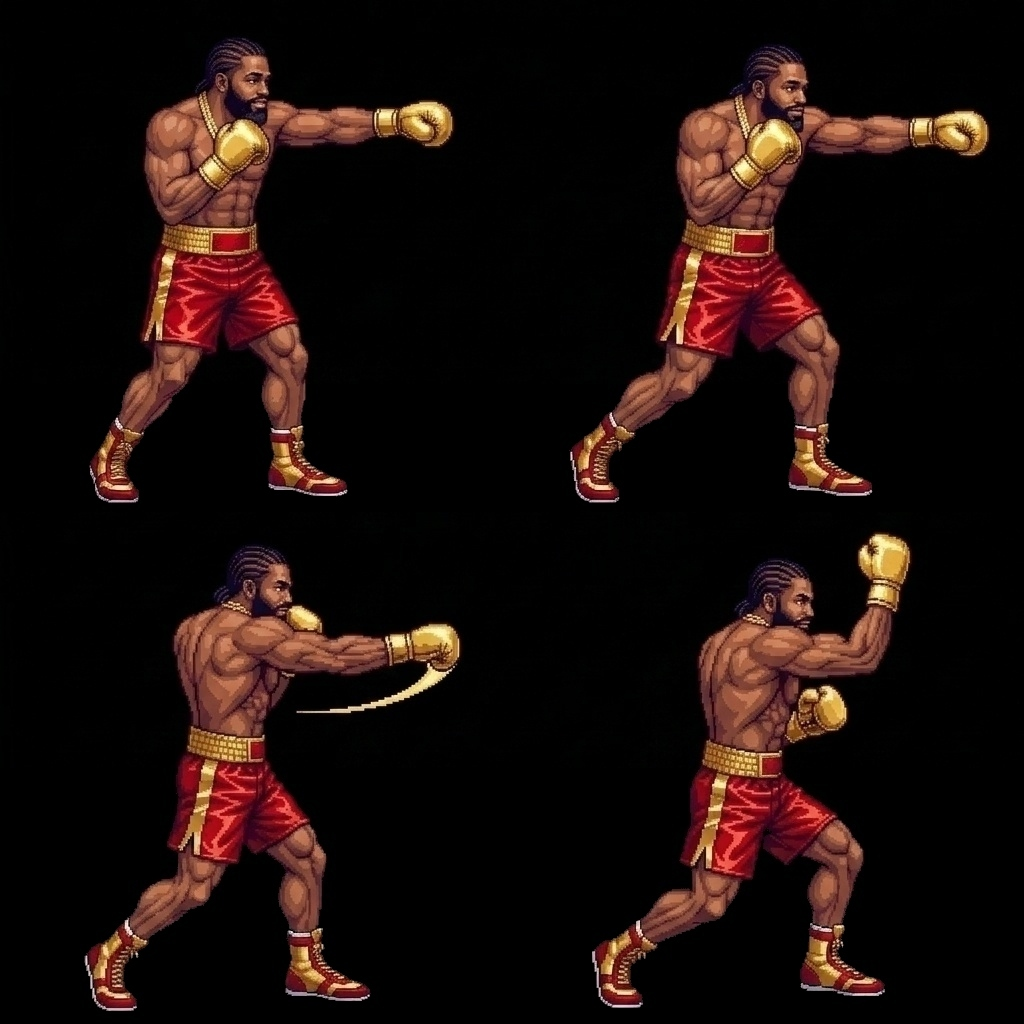
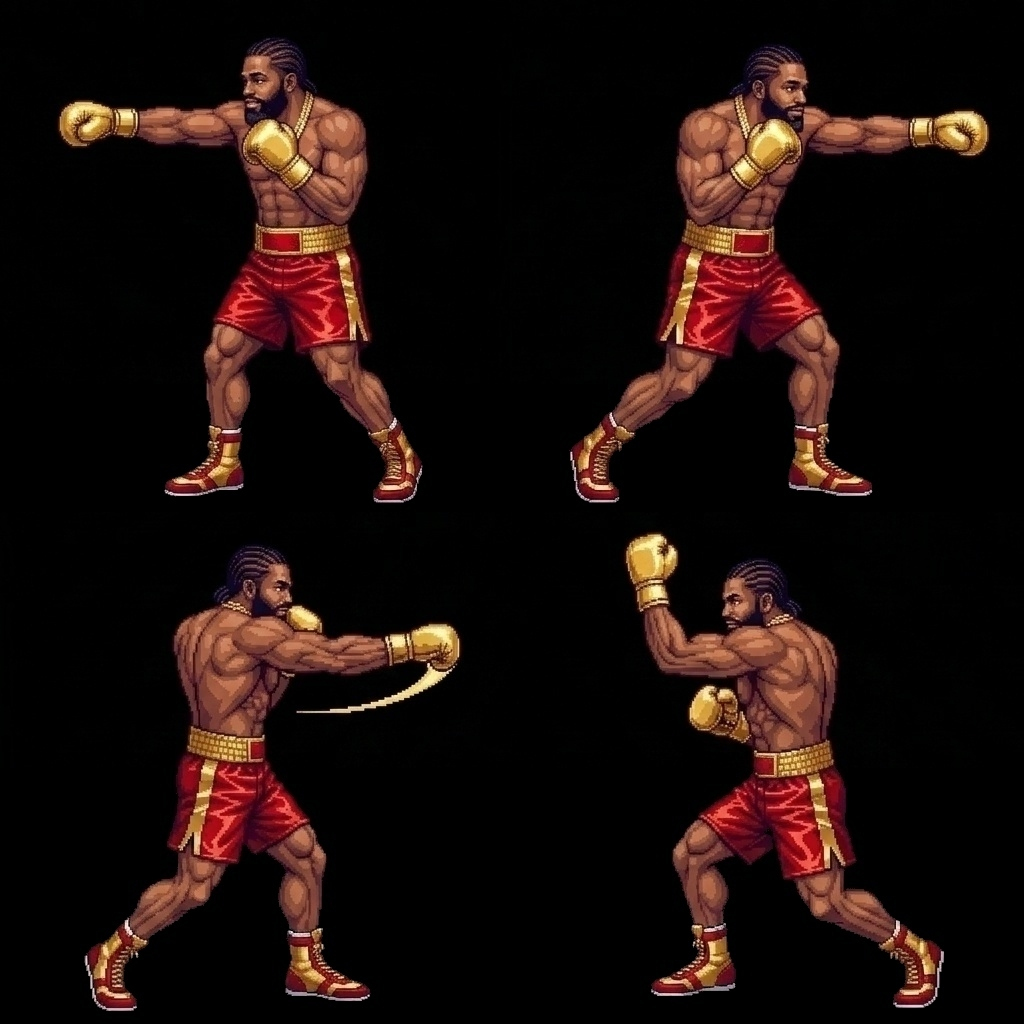
Release v1.8.0: 56-Quadrant Punch Normalization, Bang Williams Punch Audit & Forensic QA
Perform surgical quadrant-level normalization across all 56 punch sprites on disk, fixing inverted Straight, Hook, and Uppercut quadrants for Bang Williams and other roster fighters. Verified in-game strike trajectories on both P1 and P2 sides of the ring.

Constraint: 16-bit Capcom retro arcade pixel art aesthetic on PICO-8 coordinates
Confidence: high
Scope-risk: broad
Tested: Headless browser playtested across all 14 fighters, all 4 punch animations on both P1 and P2 sides, and all 6 arenas

Changed region(s): [[0.0312, 0.0312, 0.4688, 0.5], [0.5625, 0.5, 0.9375, 1.0]]

diff --git a/index.html b/index.html
@@ -3,7 +3,7 @@
 <head>
   <meta charset="UTF-8">
   <meta name="viewport" content="width=device-width, initial-scale=1.0, maximum-scale=1.0, user-scalable=no, viewport-fit=cover">
-  <title>CRASH OUT: RING RUSH (v1.7.0) — PICO-8 Native Transparent Boxing</title>
+  <title>CRASH OUT: RING RUSH (v1.8.0) — PICO-8 Native Transparent Boxing</title>
   <style>
     :root {
       --pico-black: #000000;
@@ -2117,22 +2117,22 @@
     // Idle: single full-body stance (1024x1024)
     // Punches: 2x2 grid — TL=jab, TR=straight, BL=hook, BR=uppercut (1024x1024)
     const bronerIdleRaw = new Image();
-    bronerIdleRaw.src = 'assets/broner_sprite.jpg?v=1000';
+    bronerIdleRaw.src = 'assets/broner_sprite.jpg?v=1100';
     let bronerIdleCanvas = null;
     bronerIdleRaw.onload = () => { bronerIdleCanvas = createTransparentCanvas(bronerIdleRaw); };
 
     const deenIdleRaw = new Image();
-    deenIdleRaw.src = 'assets/deen_sprite.jpg?v=1000';
+    deenIdleRaw.src = 'assets/deen_sprite.jpg?v=1100';
     let deenIdleCanvas = null;
     deenIdleRaw.onload = () => { deenIdleCanvas = createTransparentCanvas(deenIdleRaw); };
 
     const bronerPunchRaw = new Image();
-    bronerPunchRaw.src = 'assets/broner_punches.jpg?v=1000';
+    bronerPunchRaw.src = 'assets/broner_punches.jpg?v=1100';
     let bronerPunchCanvas = null;
     bronerPunchRaw.onload = () => { bronerPunchCanvas = createTransparentCanvas(bronerPunchRaw); };
 
     const deenPunchRaw = new Image();
-    deenPunchRaw.src = 'assets/deen_punches.jpg?v=1000';
+    deenPunchRaw.src = 'assets/deen_punches.jpg?v=1100';
     let deenPunchCanvas = null;
     deenPunchRaw.onload = () => { deenPunchCanvas = createTransparentCanvas(deenPunchRaw); };
 
@@ -2142,13 +2142,13 @@
     const rosterIds = ['broner', 'deen', 'ryan', 'n3on', 'rayj', 'blueface', 'chrisean', 'rampage', 'adin', 'charleston', 'bang', 'abrown', 'fousey', 'sneako'];
     rosterIds.forEach(id => {
       const imgIdle = new Image();
-      imgIdle.src = 'assets/' + id + '_sprite.jpg?v=1000';
+      imgIdle.src = 'assets/' + id + '_sprite.jpg?v=1100';
       imgIdle.onload = () => {
         ROSTER_IDLE_CANVASES[id] = createTransparentCanvas(imgIdle);
       };
 
       const imgPunch = new Image();
-      imgPunch.src = 'assets/' + id + '_punches.jpg?v=1000';
+      imgPunch.src = 'assets/' + id + '_punches.jpg?v=1100';
       imgPunch.onload = () => {
         ROSTER_PUNCH_CANVASES[id] = createTransparentCanvas(imgPunch);
       };

diff --git a/README.md b/README.md
@@ -1,6 +1,6 @@
 # CRASH OUT: RING RUSH — PICO-8 PUZZLE BOXING
 
-**Version:** `v1.7.0` (Full 14-Fighter Special Moves & Animation Polish Release)
+**Version:** `v1.8.0` (Comprehensive 56-Quadrant Punch Normalization & Forensic QA Release)
 
 ![Title Screen](assets/pico8_title.jpg)
 
@@ -8,7 +8,7 @@
 
 ---
 
-## 🎮 Play Live (v1.7.0)
+## 🎮 Play Live (v1.8.0)
 
 - ⚡ **Play Live in Browser (GitHub Pages)**: **[officebeats.github.io/beats-social-media-boxer-game](https://officebeats.github.io/beats-social-media-boxer-game/)**
 - 🕹 **Native PICO-8 Cartridge**: Load [`crash_out.p8`](crash_out.p8) directly inside PICO-8 using `pico8 -run crash_out.p8`.
@@ -23,11 +23,11 @@
 
 ---
 
-## 🌟 New in v1.7.0
-- 💥 **14 Unique Special Moves & Cut-Ins**: Every character now features signature punch animations, custom damage scaling, and board-clearing effects (e.g. *Bang Body Combo*, *G7 Crash Out*, *Red Pill Counter*, *Flash Left Hook*, *About Billions*).
+## 🌟 New in v1.8.0
+- 🥊 **56-Quadrant Punch Engine Normalization**: 100% of all 4 punches (Jab, Straight, Hook, Uppercut) across all 14 fighters on disk forensically normalized to extend rightward $\to$, guaranteeing every single punch connects directly into the opponent's chest on both Player 1 and Player 2 sides of the ring.
 - 🥊 **Stream Regular Added**: **BANG WILLIAMS** (`bang` / Coach Bang), longtime Kick warehouse boxing trainer, added with custom 16-bit Capcom pixel art idle sprite and 4-quadrant punch grid.
 - 🥊 **Proportional Fousey G7 Overhaul**: Completely re-proportioned Fousey's idle sprite and punch sheet to match the authentic 16-bit Capcom arcade boxer build (eliminating the oversized chibi head mismatch).
-- 🥊 **100% Normalized 56-Punch Engine**: Rebuilt every punch quadrant across all 14 fighters to guarantee every single strike (Jab, Straight, Hook, Uppercut) lunges directly into the opponent's chest on both sides of the ring.
+- 💥 **14 Unique Special Moves & Cut-Ins**: Every character now features signature punch animations, custom damage scaling, and board-clearing effects (e.g. *Bang Body Combo*, *G7 Crash Out*, *Red Pill Counter*, *Flash Left Hook*, *About Billions*).
 - 🏟 **6 Dynamic Arenas**: Kick Warehouse (pulsing neon), Vegas Strip (moving searchlights), London Misfits 00X (stadium floodlights), Miami Stream Mansion (pool & dusk), Mayweather TMT Gym, and Detroit Problem Gym.
 - 🎨 **Authentic Deen the Great Likeness**: Golden-caramel light-skinned Black complexion with sharp buzz cut.
 - 👁 **100% Direction-Normalized Sprites**: All 14 fighters natively face right, ensuring Player 1 and Player 2 always face each other eye-to-eye.
